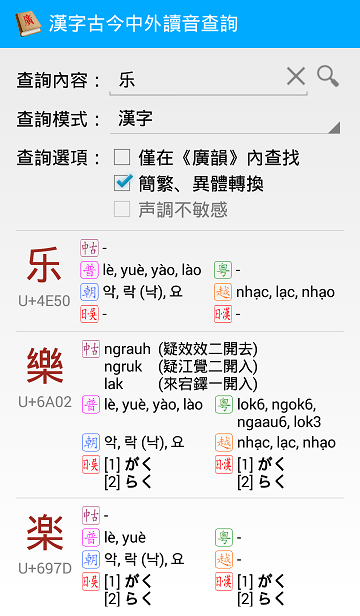
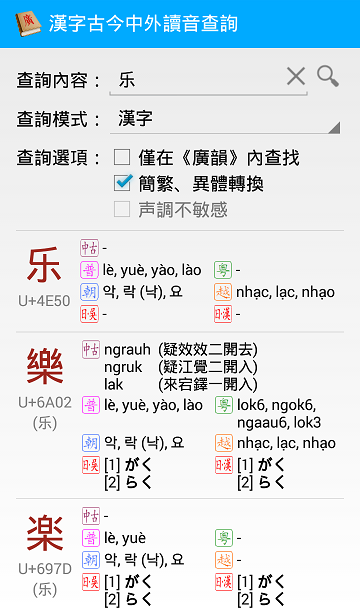
Updated help and version info.

diff --git a/assets/help/index.htm b/assets/help/index.htm
@@ -90,7 +90,7 @@ function toggle(id) {
 <p align=center><img class=example src=ex2.png></p>
 
 <p>　　本例與上例相比，有兩個地方比較複雜：一是“乐”字的簡繁體不同，二是“乐”是個多音字。</p>
-<p>　　如果直接查詢“乐”字，會發現很多種語言的讀音查不到。這是因爲這些語言讀音的數據來源使用的是繁體字。爲了能夠查詢到這些讀音，需要勾選“簡繁、異體轉換”選項。這樣，就能夠查到大陸簡體字“乐”、繁體字“樂”和日本簡化字“楽”了。可以看到，繁體字“樂”的讀音是最全的。如果想只看繁體字“樂”，可以再勾選“僅在《廣韻》內查找”選項，《廣韻》中沒有的“乐”“楽”兩字就會被隱藏。</p>
+<p>　　如果直接查詢“乐”字，會發現很多種語言的讀音查不到。這是因爲這些語言讀音的數據來源使用的是繁體字。爲了能夠查詢到這些讀音，需要勾選“簡繁、異體轉換”選項。這樣，就能夠查到大陸簡體字“乐”、繁體字“樂”和日本簡化字“楽”了。在“樂”“楽”兩字的Unicode下方顯示的“(乐)”表明它們是“乐”的異體（或簡體、繁體）字。可以看到，繁體字“樂”的讀音是最全的。如果想只看繁體字“樂”，可以再勾選“僅在《廣韻》內查找”選項，《廣韻》中沒有的“乐”“楽”兩字就會被隱藏。</p>
 <p>　　“樂”是個多音字，它的多種中古音會分行顯示，並按《廣韻》中出現的順序排列。普通話、粵語、朝鮮語、越南語中的多種讀音用逗號分隔；粵語讀音按數據來源中例詞的數量降序排列，另外三者按數據來源中本來的順序排列，都近似達到按使用頻率降序排列的效果。而日語爲了能夠把不同義項的吳音、漢音等對應起來，採用數字來區分不同義項的讀音。可以看到，每種語言給出的讀音數目不同，順序也不盡相同。這受限於數據來源本身，用戶需要根據自己的音韻學知識來確定不同語言的讀音之間的對應關係。</p>
 
 <h2>3. 比較“心”“新”兩字的讀音</h2>
